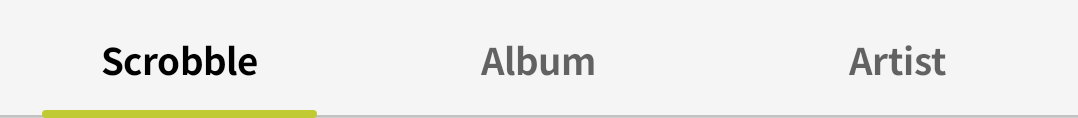
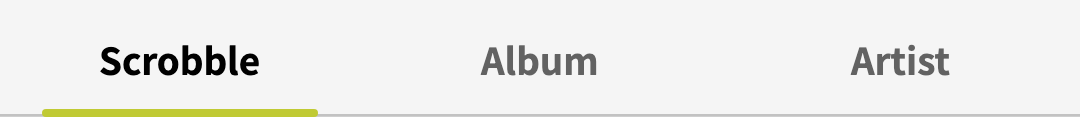
build(home): convert :feature:home to KMP and render its VRT on the JVM
- apply the `sunsetscrob.library` / `compose` / `metro` /
  `test.screenshot` convention plugins; move sources to `commonMain`
  and tests to `jvmTest`, drop the empty manifest, the ProGuard files
  and the unused `timber` / `coroutines` / `compose.ui.tooling` deps
- rewrite `HomeTabsTest` as a JUnit 5 `@Tag("VRT")` class and
  re-record `home_tabs.png` / `home_tabs_light.png` on the JVM
- replace the Japanese inline comment on `navigateToLogin` in
  `HomeNavigation` with an empty lambda

Changed region(s): [[0.0918, 0.3846, 0.2449, 0.641], [0.4286, 0.3846, 0.551, 0.641], [0.7653, 0.3846, 0.8878, 0.641]]

diff --git a/feature/home/src/jvmTest/kotlin/com/mataku/scrobscrob/home/ui/molecule/HomeTabsTest.kt b/feature/home/src/jvmTest/kotlin/com/mataku/scrobscrob/home/ui/molecule/HomeTabsTest.kt
@@ -1,26 +1,15 @@
 package com.mataku.scrobscrob.home.ui.molecule
 
-import androidx.compose.ui.test.junit4.v2.createComposeRule
-import androidx.test.ext.junit.runners.AndroidJUnit4
 import com.mataku.scrobscrob.core.entity.AppTheme
-import com.mataku.scrobscrob.test_helper.integration.VRT
 import com.mataku.scrobscrob.test_helper.integration.captureScreenshot
-import org.junit.Rule
-import org.junit.Test
-import org.junit.experimental.categories.Category
-import org.junit.runner.RunWith
-import org.robolectric.annotation.GraphicsMode
+import org.junit.jupiter.api.Tag
+import org.junit.jupiter.api.Test
 
-@RunWith(AndroidJUnit4::class)
-@GraphicsMode(GraphicsMode.Mode.NATIVE)
-@Category(VRT::class)
+@Tag("VRT")
 class HomeTabsTest {
-  @get:Rule
-  val composeTestRule = createComposeRule()
-
   @Test
   fun layout() {
-    composeTestRule.captureScreenshot(
+    captureScreenshot(
       appTheme = AppTheme.DARK,
       content = {
         HomeTabs(
@@ -34,7 +23,7 @@ class HomeTabsTest {
 
   @Test
   fun layout_light() {
-    composeTestRule.captureScreenshot(
+    captureScreenshot(
       appTheme = AppTheme.LIGHT,
       content = {
         HomeTabs(

diff --git a/feature/home/src/commonMain/kotlin/com/mataku/scrobscrob/home/ui/navigation/HomeNavigation.kt b/feature/home/src/commonMain/kotlin/com/mataku/scrobscrob/home/ui/navigation/HomeNavigation.kt
@@ -53,7 +53,7 @@ fun SunsetNavBuilder.homeGraph() {
           ),
         )
       },
-      navigateToLogin = { /* 認証 gate 切替で処理 */ },
+      navigateToLogin = {},
       modifier = Modifier,
     )
   }
